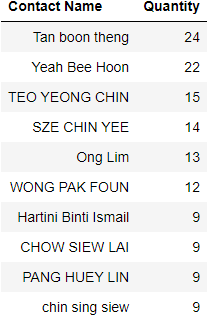
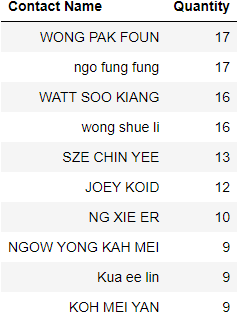
complete looping potential customer data

diff --git a/templates/demand.html b/templates/demand.html
@@ -38,8 +38,19 @@
                     <img src="{{url_for('static', filename='people.png')}}" width="35px">
                     <div class="text-[18px] ml-5">List of Potential Customer : </div>
                 </div>
-                <div class="w-full px-6 py-4 items-center">
-                    <img src="{{url_for('static', filename='potentialCustomerList.png')}}" width="100%">
+                <div class="w-full px-6 py-4 items-center flex-col">
+                    <table class="centered thick-border">
+                        <tr>
+                                <th>Contact Name</th>
+                                <th>Quantity</th>
+                        </tr>
+                            {% for key, value in datasetCustomer.iterrows() %}
+                                <tr>
+                                    <td>{{ value['Contact Name'] }}</td>
+                                    <td>{{ value['Quantity'] }}</td>
+                                </tr>
+                            {% endfor %}
+                    </table>
                 </div>
             </div>   
     </div>

diff --git a/app.py b/app.py
@@ -14,6 +14,7 @@ def search():
 
 @app.route('/searchProduct', methods = ['POST'])
 def searchProduct():
+    # productSKU
     productSKUInput = request.form['productSKU']
     print(productSKUInput)
 
@@ -21,8 +22,12 @@ def searchProduct():
     'C:\\Users\\xuan4\\Desktop\\FYP\\Dreamshop\\Version 3\\Potential Customer List Output.ipynb',
     parameters={'productSKU': productSKUInput})
     
+    # productQty
     datasetQty = pd.read_excel('productQuantity.xlsx')
     qtyRow = datasetQty[datasetQty['SKU'] == productSKUInput]['Quantity'].values
     print(qtyRow[0])
 
-    return render_template('demand.html', productSKU=productSKUInput, productQty=qtyRow[0])
+    #potentialCustomer
+    datasetCustomer = pd.read_excel('Potential Customer List.xlsx')
+
+    return render_template('demand.html', productSKU=productSKUInput, productQty=qtyRow[0], datasetCustomer=datasetCustomer)
